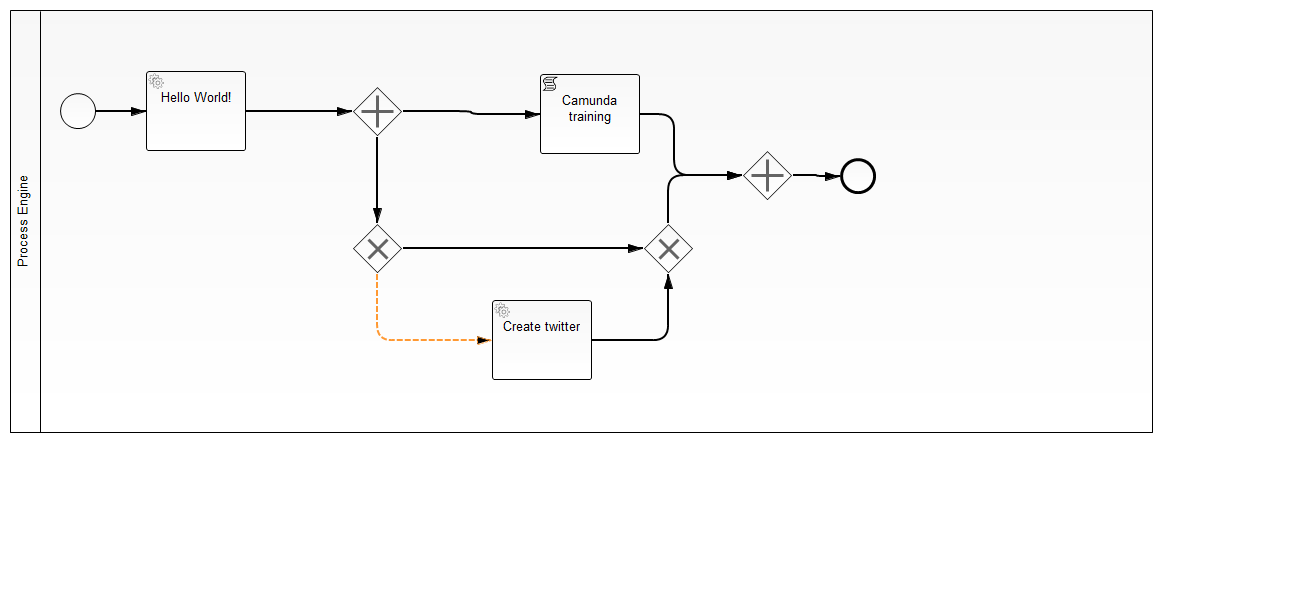
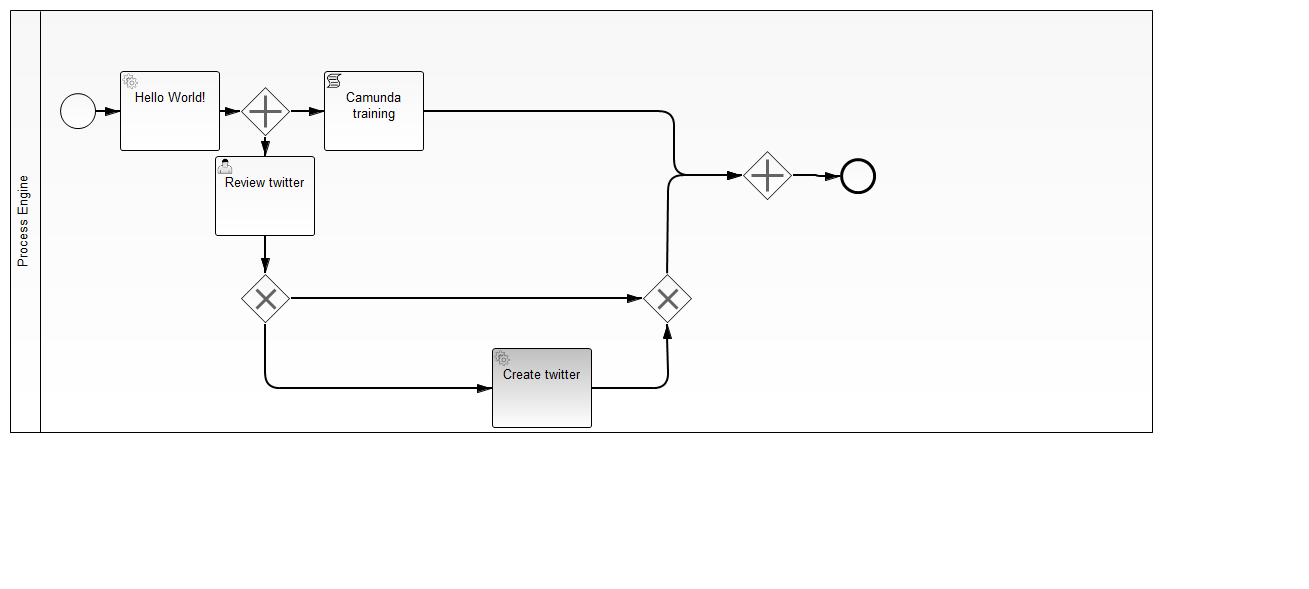
user task

diff --git a/src/test/java/foo/InMemoryH2Test.java b/src/test/java/foo/InMemoryH2Test.java
@@ -2,15 +2,22 @@ package foo;
 
 import static org.camunda.bpm.engine.test.assertions.ProcessEngineAssertions.init;
 import static org.camunda.bpm.engine.test.assertions.ProcessEngineAssertions.assertThat;
+import static org.camunda.bpm.engine.test.assertions.ProcessEngineTests.complete;
+import static org.camunda.bpm.engine.test.assertions.ProcessEngineTests.task;
+import static org.junit.Assert.assertEquals;
 
 import java.text.SimpleDateFormat;
 import java.util.GregorianCalendar;
 import java.util.HashMap;
+import java.util.List;
 
+import org.camunda.bpm.engine.impl.cmmn.cmd.CompleteCaseExecutionCmd;
 import org.camunda.bpm.engine.runtime.ProcessInstance;
 import org.camunda.bpm.engine.runtime.ProcessInstantiationBuilder;
+import org.camunda.bpm.engine.task.Task;
 import org.camunda.bpm.engine.test.Deployment;
 import org.camunda.bpm.engine.test.ProcessEngineRule;
+import org.camunda.bpm.engine.variable.Variables;
 import org.junit.Before;
 import org.junit.Rule;
 import org.junit.Test;
@@ -36,9 +43,6 @@ public class InMemoryH2Test {
 		init(rule.getProcessEngine());
 	}
 
-	/**
-	 * Just tests if the process definition is deployable.
-	 */
 	@Test
 	@Deployment(resources = "process.bpmn")
 	public void testParsingAndDeployment() {
@@ -46,16 +50,41 @@ public class InMemoryH2Test {
 		HashMap<String, Object> processVariables = new HashMap<String, Object>();
 		processVariables.put(
 				"content",
-				"camunda training - XOR gateway brhuehuehue em: "
+				"camunda training - User task gateway brhuehuehue em: "
 						+ new SimpleDateFormat("HH:mm:ss")
 								.format(new GregorianCalendar().getTime()));
-		processVariables.put("xoraBola", Boolean.TRUE);
 
 		ProcessInstance processInstance = rule.getRuntimeService()
 				.startProcessInstanceByKey("learning-camunda-BPM",
 						processVariables);
 
-		assertThat(processInstance).isEnded();
+		assertThat(processInstance).isStarted().isWaitingAt("user_task_review_process");
+		
+		complete(task(), Variables.createVariables().putValue("approved", Boolean.TRUE));
+		
+		assertThat(processInstance).isEnded().hasPassed("hello_world", "groovy_script", "user_task_review_process", "create_twitter");
+	}
+	
+	@Test
+	@Deployment(resources = "process.bpmn")
+	public void testParsingAndDeployment2() {
+
+		HashMap<String, Object> processVariables = new HashMap<String, Object>();
+		processVariables.put(
+				"content",
+				"camunda training - User task gateway - approved FALSE brhuehuehue em: "
+						+ new SimpleDateFormat("HH:mm:ss")
+								.format(new GregorianCalendar().getTime()));
+
+		ProcessInstance processInstance = rule.getRuntimeService()
+				.startProcessInstanceByKey("learning-camunda-BPM",
+						processVariables);
+
+		assertThat(processInstance).isStarted().isWaitingAt("user_task_review_process");
+		
+		complete(task(), Variables.createVariables().putValue("approved", Boolean.FALSE));
+		
+		assertThat(processInstance).isEnded().hasPassed("hello_world", "groovy_script", "user_task_review_process");
 	}
 
 }
